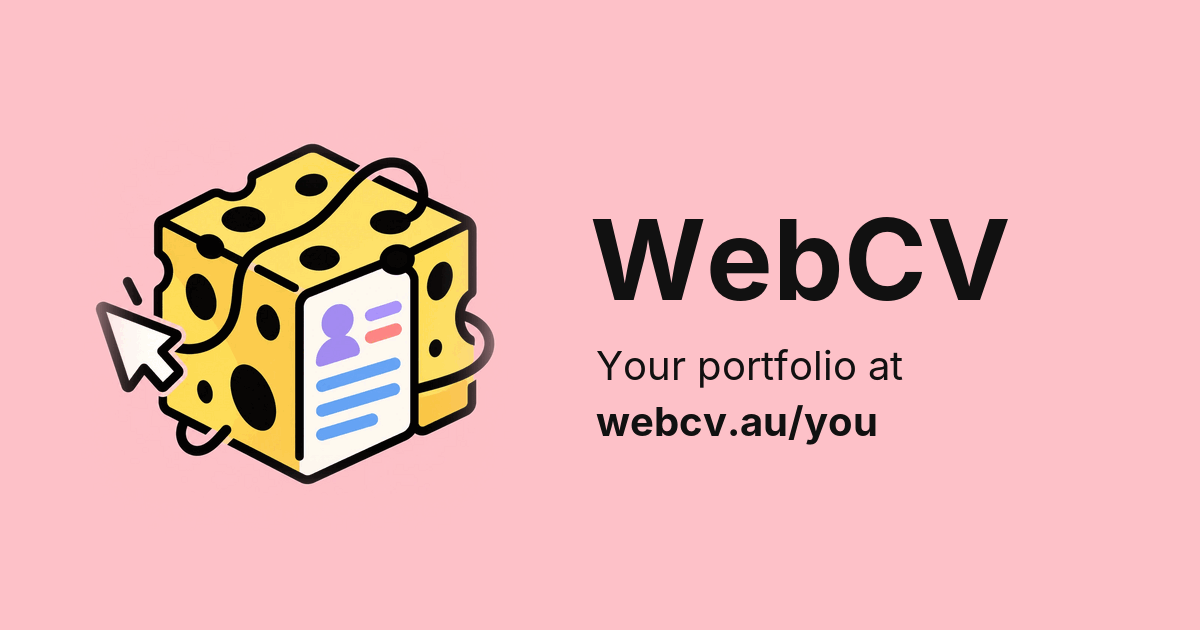
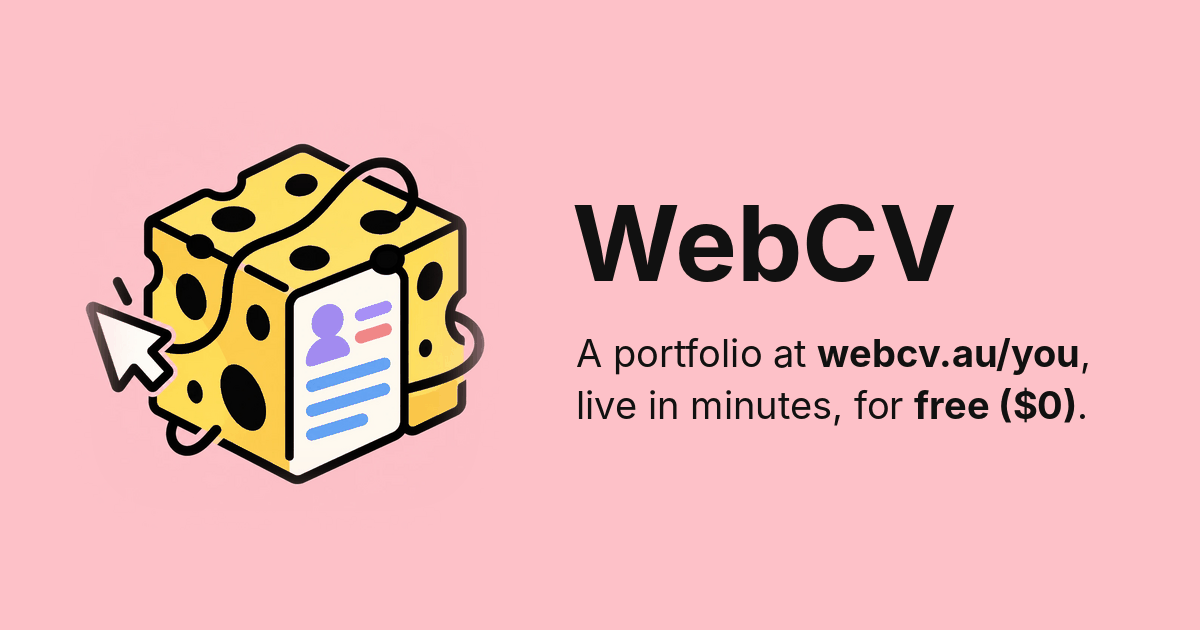
Say on the front page that a portfolio is free ($0)
The hero line, page title and description, and the link-sharing image now
read "A portfolio at webcv.au/you, live in minutes, for free ($0)."

Claude-Session: https://claude.ai/code/session_01QXBXzNqJAV1Fi9v5UEvtmf

Changed region(s): [[0.0617, 0.2111, 0.4317, 0.7841], [0.4625, 0.3016, 0.8325, 0.4825], [0.4625, 0.5429, 0.925, 0.6937]]

diff --git a/app/platform/layout.tsx b/app/platform/layout.tsx
@@ -3,16 +3,16 @@ import './platform.css';
 import { Foot, TopBar } from './chrome';
 
 export const metadata: Metadata = {
-  title: { absolute: 'WebCV — your portfolio at webcv.au/you' },
+  title: { absolute: 'WebCV — a free portfolio at webcv.au/you' },
   description:
-    'Build a portfolio website in minutes. Pick your address, fill it in with a visual editor, and share webcv.au/your-name.',
+    'A portfolio at webcv.au/you, live in minutes, for free ($0). Pick a template, edit it right on the page, and share webcv.au/your-name.',
   robots: { index: true, follow: true },
   // The root layout fills these from a portfolio's content; the platform is not one.
   applicationName: 'WebCV',
   authors: [{ name: 'WebCV' }],
   openGraph: {
-    title: 'WebCV — your portfolio at webcv.au/you',
-    description: 'Build a portfolio website in minutes and share webcv.au/your-name.',
+    title: 'WebCV — a free portfolio at webcv.au/you',
+    description: 'A portfolio at webcv.au/you, live in minutes, for free ($0).',
     url: 'https://www.webcv.au',
     siteName: 'WebCV',
     type: 'website',
@@ -20,8 +20,8 @@ export const metadata: Metadata = {
   },
   twitter: {
     card: 'summary_large_image',
-    title: 'WebCV — your portfolio at webcv.au/you',
-    description: 'Build a portfolio website in minutes and share webcv.au/your-name.',
+    title: 'WebCV — a free portfolio at webcv.au/you',
+    description: 'A portfolio at webcv.au/you, live in minutes, for free ($0).',
     images: [],
   },
 };

diff --git a/app/platform/page.tsx b/app/platform/page.tsx
@@ -87,7 +87,7 @@ export default async function PlatformHome() {
             </p>
             <h1 id="hero-title">
               Your work, one link.
-              <span className="wc-hero-subline">A portfolio at webcv.au/you, live in minutes.</span>
+              <span className="wc-hero-subline">A portfolio at webcv.au/you, live in minutes, for free ($0).</span>
             </h1>
             <p className="wc-hero-lede">
               Pick your address, fill in your projects and experience in a visual editor, and publish.
